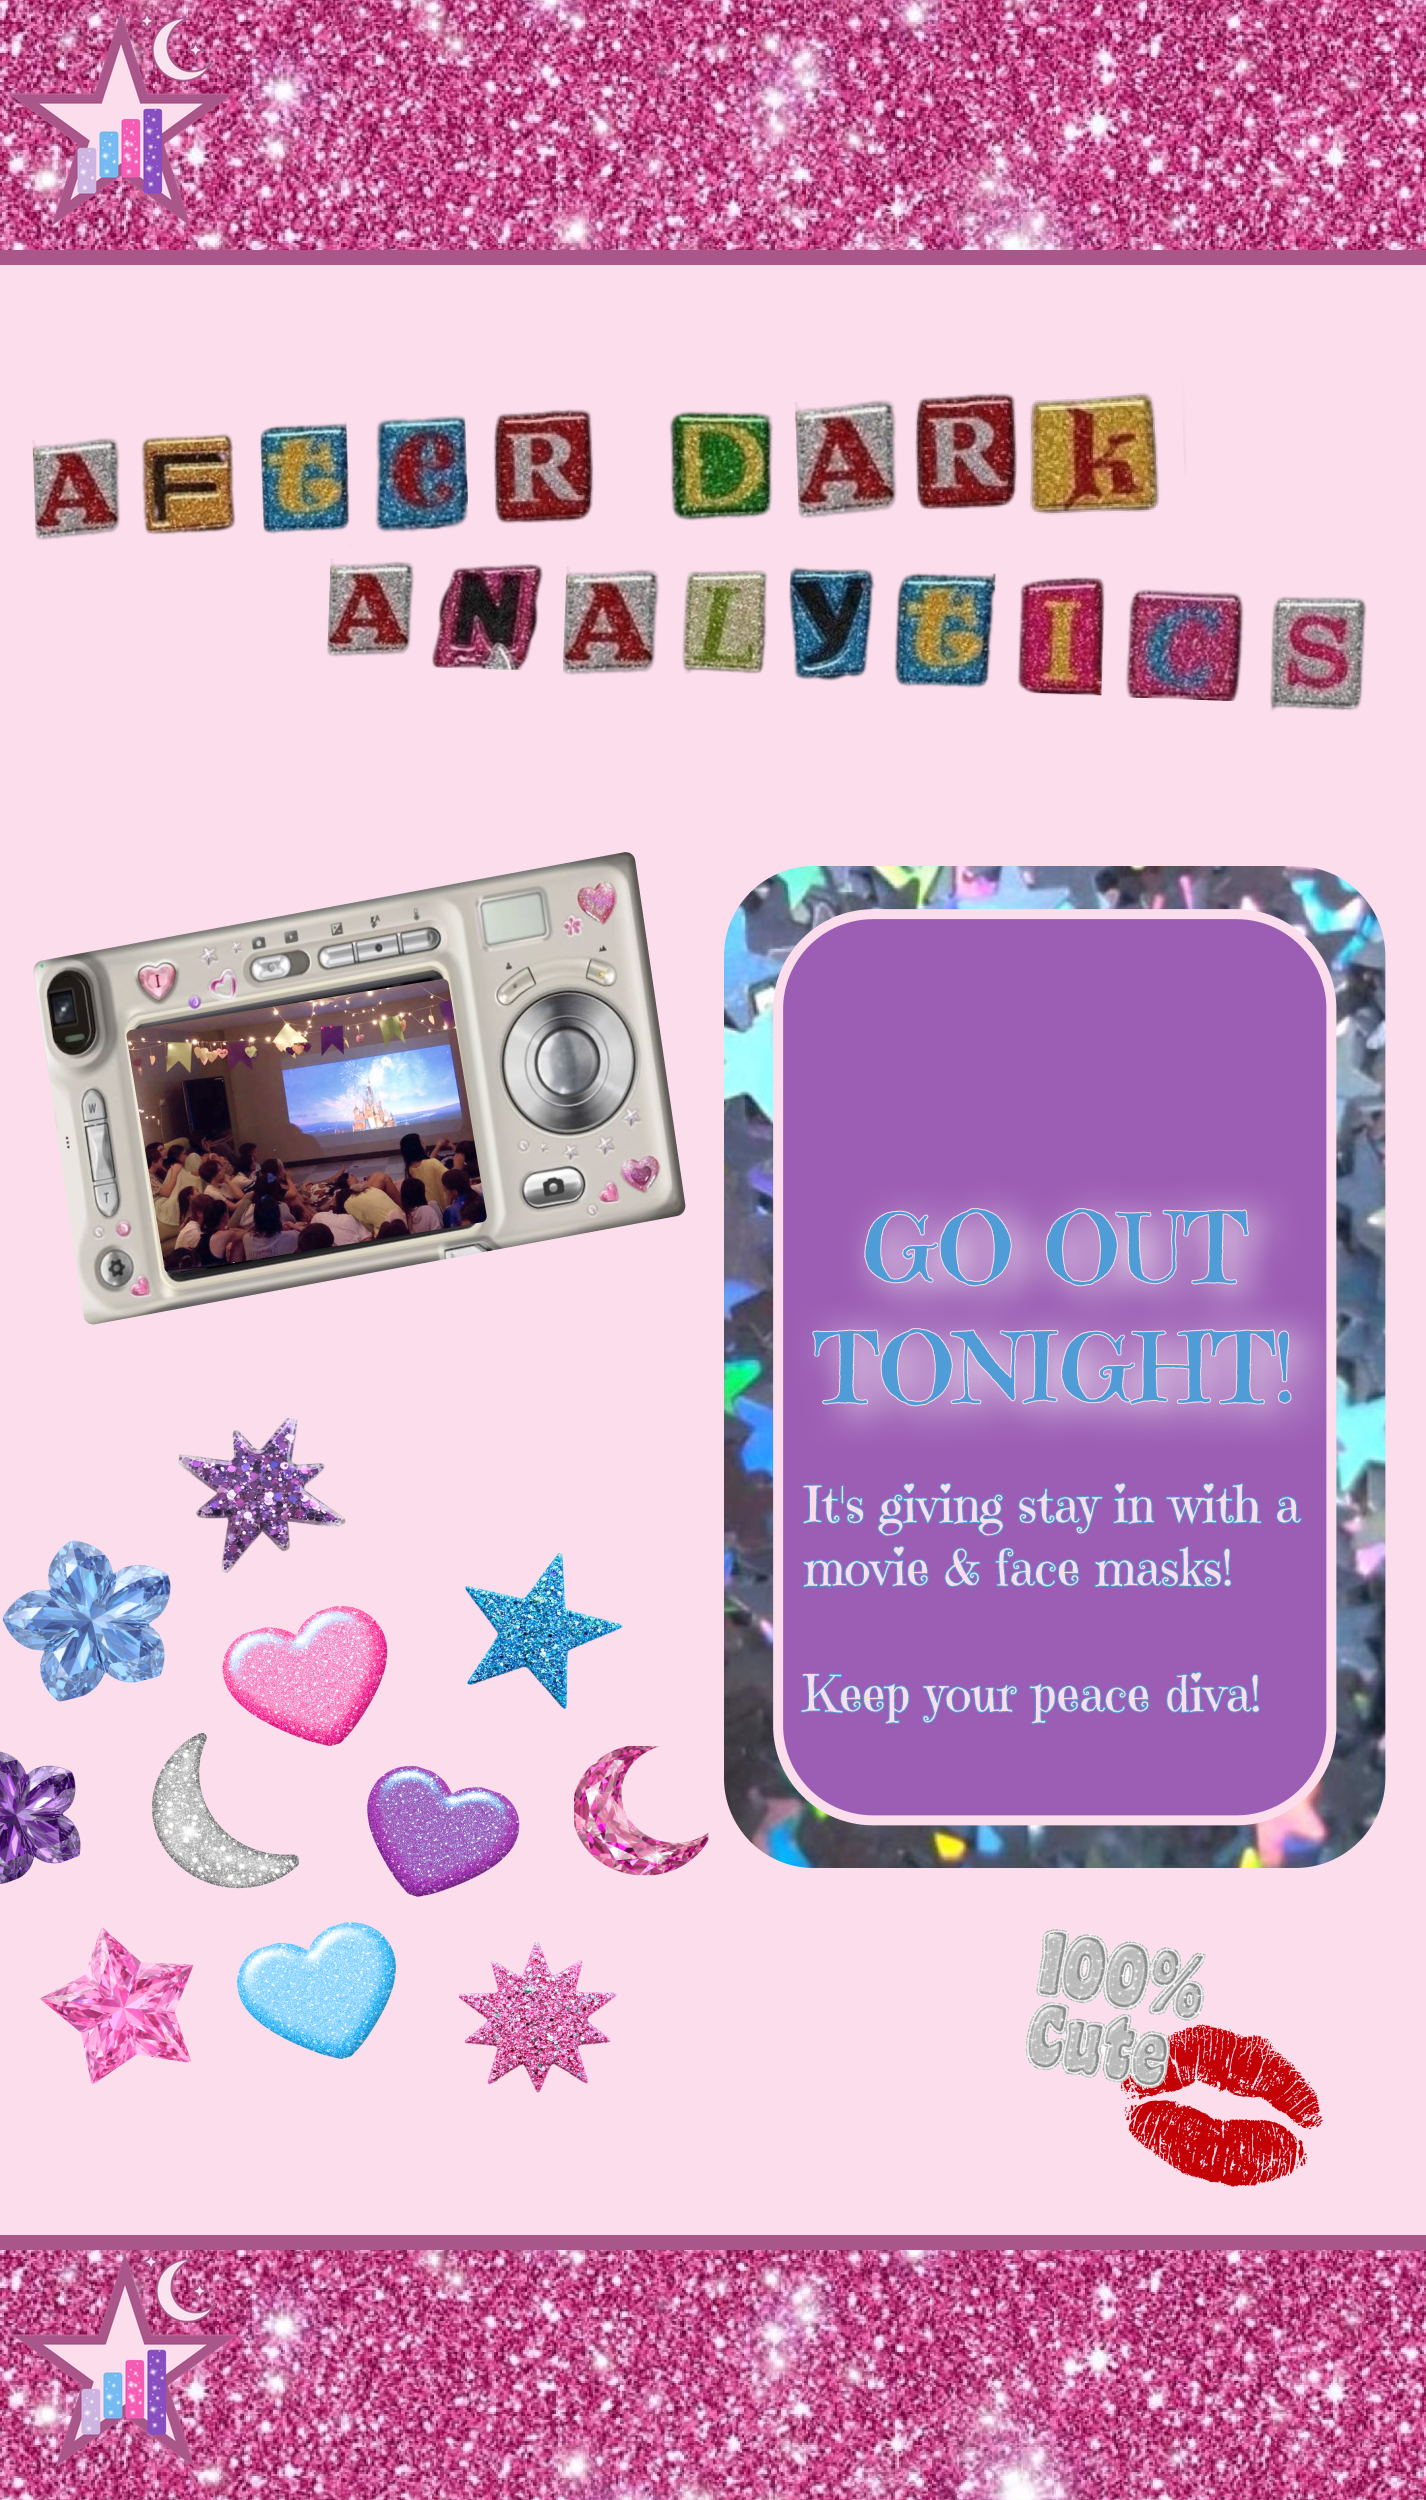
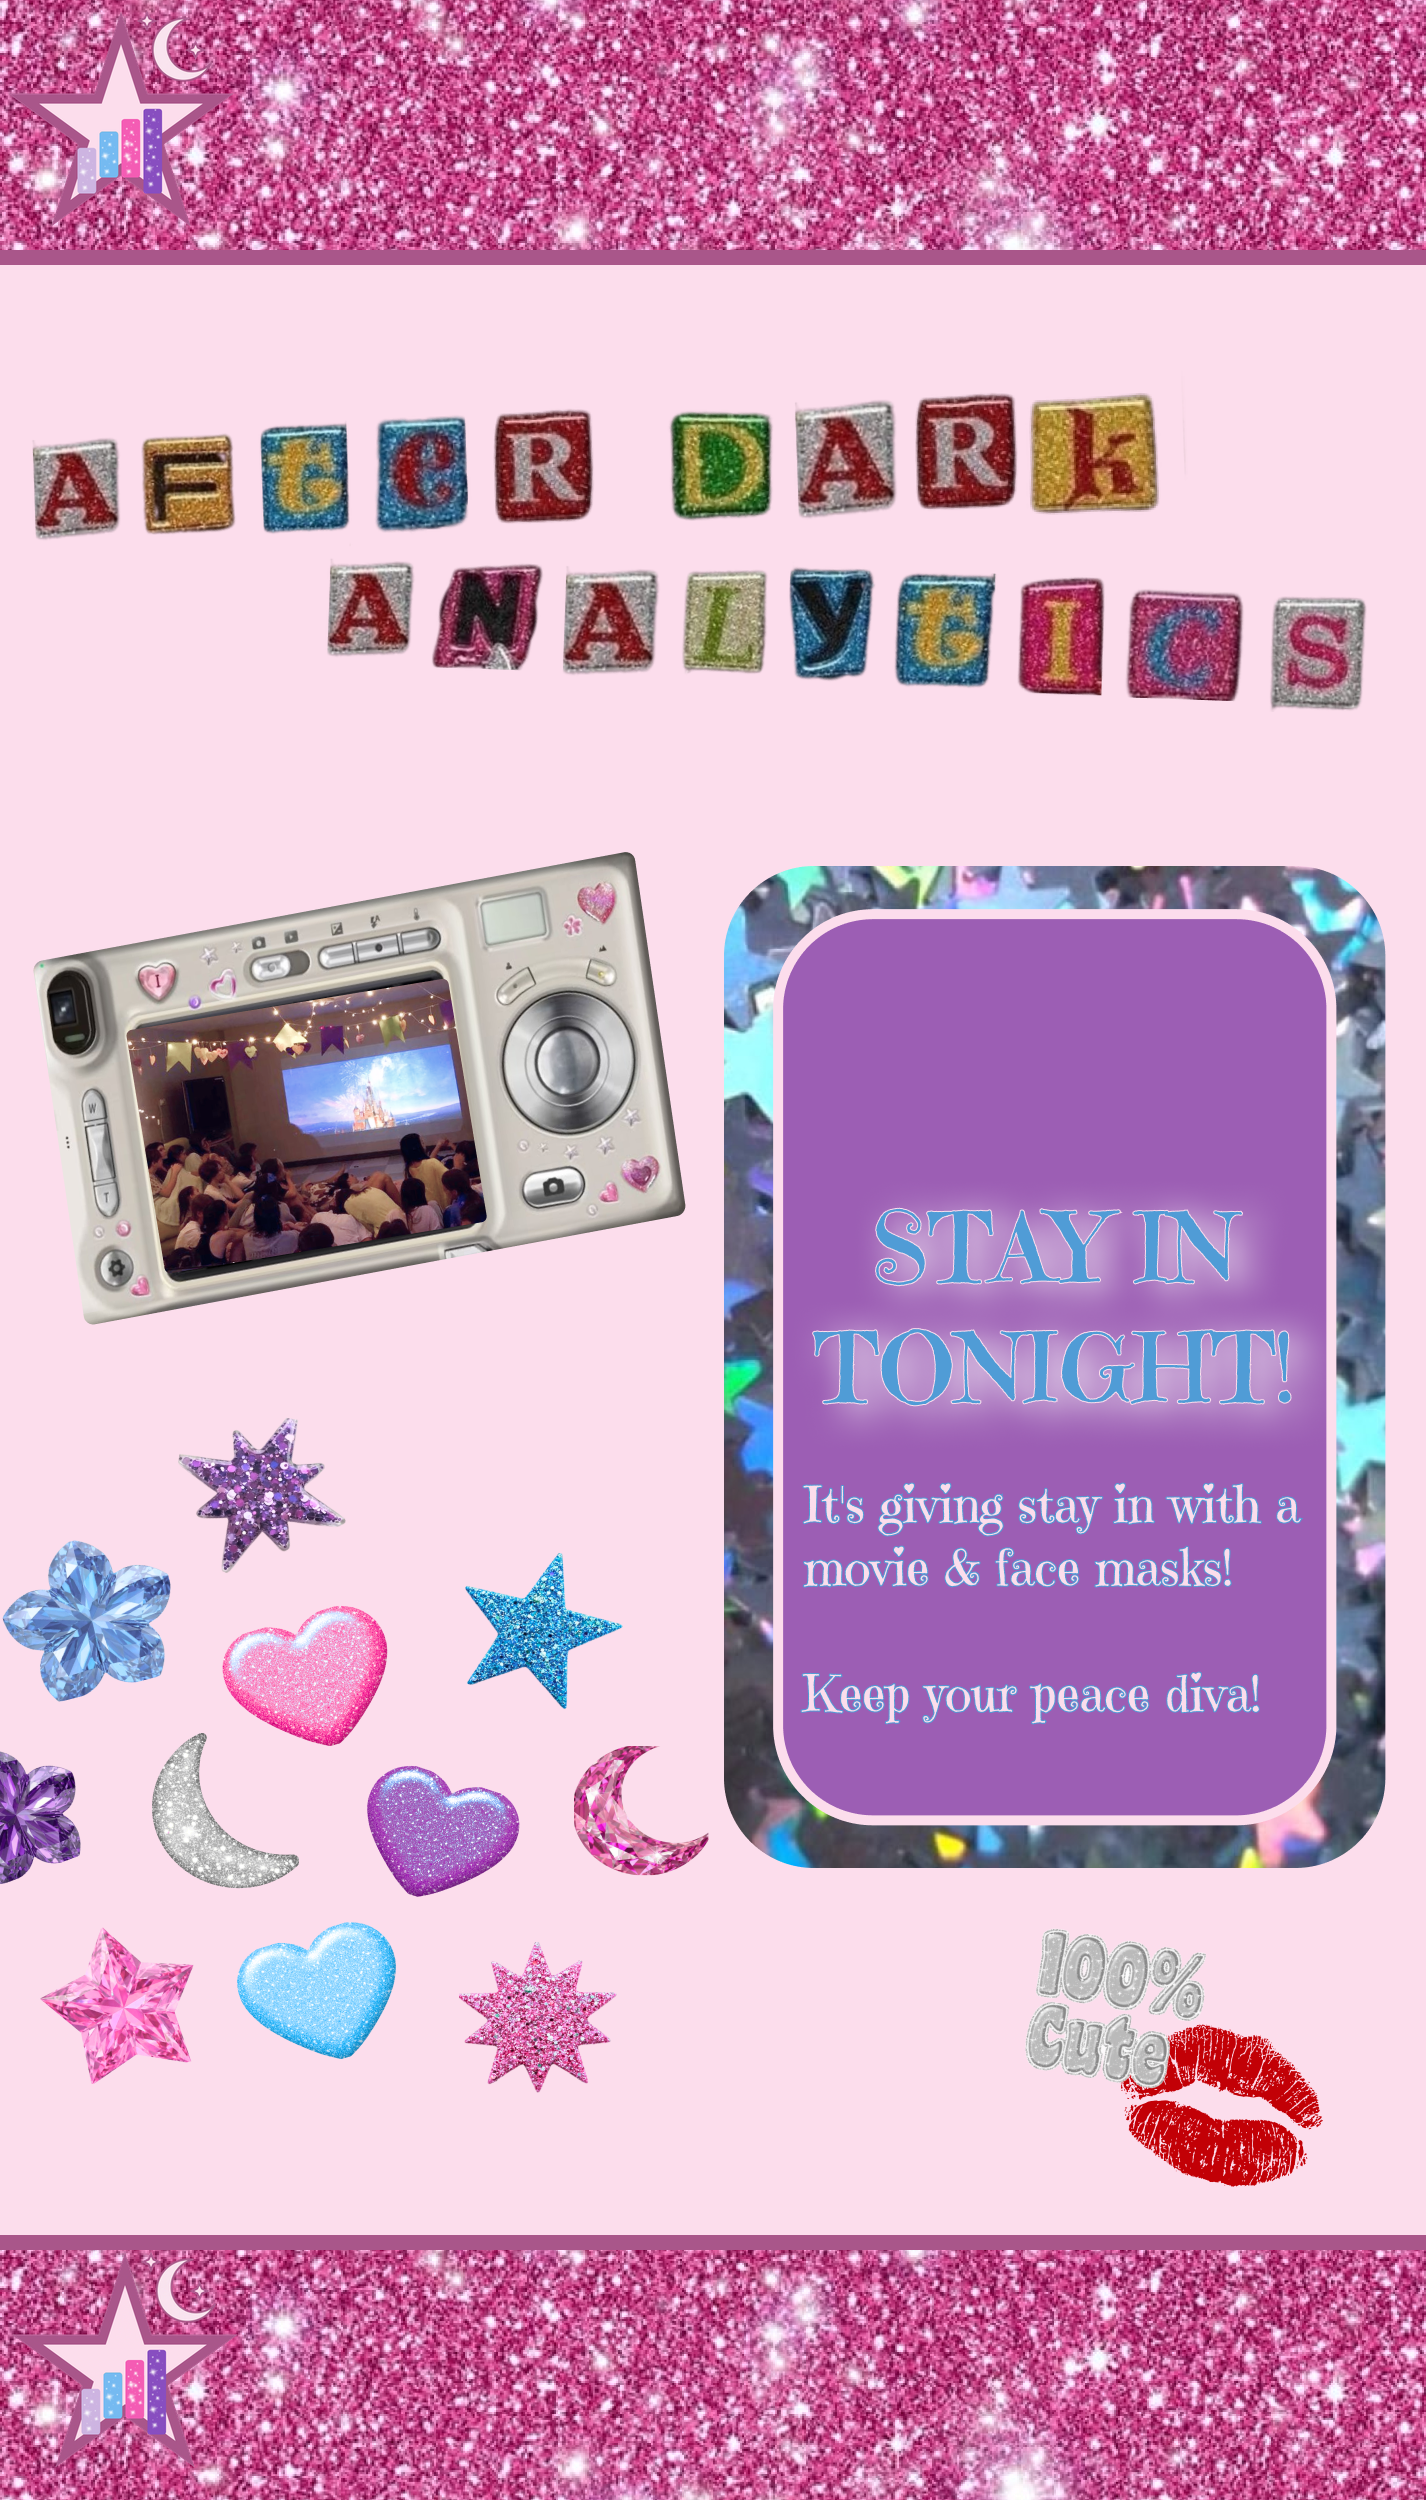
added resultsShareImage in results pg

Changed region(s): [[0.5863, 0.468, 0.864, 0.5304]]

diff --git a/frontend/src/pages/Results.jsx b/frontend/src/pages/Results.jsx
@@ -6,6 +6,7 @@ import SpinTheBottle from "../components/SpinTheBottle"
 import Martini from "../components/Martini"
 import MartiniStickers from "../assets/MartiniSticker.png"
 import CuteKissMark from "../assets/100CuteKiss.png"
+import ResultsShareImage from "../components/ResultsShareImage";
 import ResultsBox from "../components/ResultsBox"
 
 export default function Results() {
@@ -66,6 +67,8 @@ export default function Results() {
                 {/*music button positioned towards bottom */}
                 <MusicPlayer />
                 </div>
+        
+                
                 
                 
             {/* heart sticker, top-8.5, move to the top, right - used exact pixel values*/}
@@ -80,6 +83,10 @@ export default function Results() {
             className = "absolute top-[560px] left-[30%] w-[70px]"
             />
 
+          
+            <ResultsShareImage />
+     
+            
         </div>
 
     );

diff --git a/frontend/src/components/ResultsShareImage.jsx b/frontend/src/components/ResultsShareImage.jsx
@@ -11,7 +11,7 @@ export default function ResultsShareImage(){
     //tracking element to turn into png image later
     const resultsShareImage = useRef(null);
     //TO DO: change to actual result value later
-    const resultPercent=86;
+    const resultPercent=16;
     const isGoOut = resultPercent > 50;
     //if isGoOut is true, do 1st option, if not then stay in & use 2nd option
     const backgroundImage = isGoOut ? goOutImage : stayInImage;
